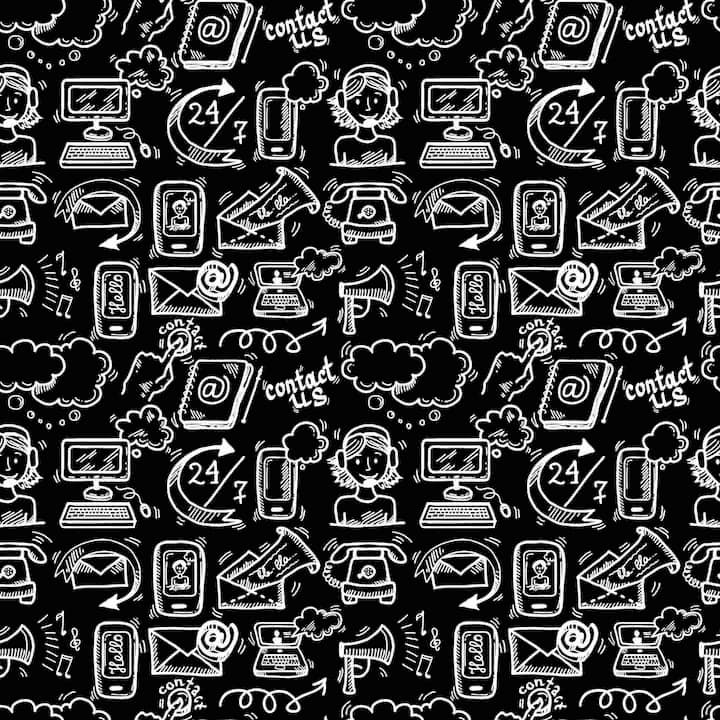
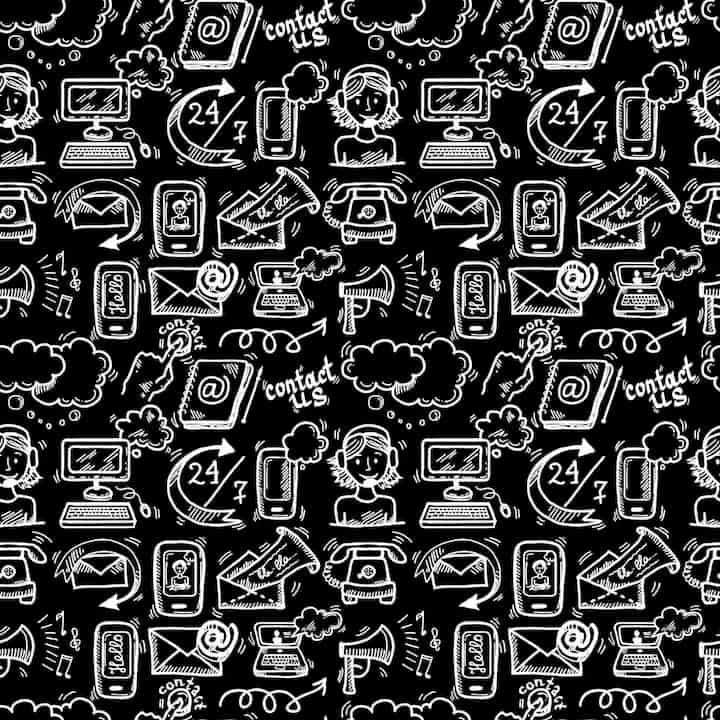
Images for dark & light theme

diff --git a/app/css/index.css b/app/css/index.css
@@ -600,8 +600,8 @@ body {
   display: block;
   position: relative;
   padding: var(--header-height) var(--header-margin-lr) 0 var(--header-margin-lr);
-  background: -webkit-gradient(linear, left top, left bottom, from(rgba(238, 238, 238, 0.85)), to(rgba(255, 255, 255, 0.85)));
-  background: linear-gradient(to bottom, rgba(238, 238, 238, 0.85), rgba(255, 255, 255, 0.85));
+  background: -webkit-gradient(linear, left top, left bottom, from(rgba(238, 238, 238, 0.9)), to(rgba(255, 255, 255, 0.85)));
+  background: linear-gradient(to bottom, rgba(238, 238, 238, 0.9), rgba(255, 255, 255, 0.85));
   overflow: hidden;
 }
 
@@ -625,12 +625,12 @@ body {
   left: 0;
   width: 100%;
   height: 100%;
-  background-image: url(/assets/images/home.jpg);
+  background-image: url(/assets/images/home_light.jpg);
   background-attachment: fixed !important;
   background-size: cover !important;
   z-index: -1;
-  -webkit-animation: zoomInOut 20s linear infinite;
-          animation: zoomInOut 20s linear infinite;
+  -webkit-animation: zoomInOut 10s linear infinite;
+          animation: zoomInOut 10s linear infinite;
 }
 
 @-webkit-keyframes zoomInOut {
@@ -1005,8 +1005,8 @@ body {
 .light-theme #work {
   -ms-grid-rows: var(--page-heading-size) auto;
       grid-template-rows: var(--page-heading-size) auto;
-  background: url(/assets/images/work.jpg), -webkit-gradient(linear, left top, left bottom, from(rgba(238, 238, 238, 0.85)), to(rgba(255, 255, 255, 0.85)));
-  background: url(/assets/images/work.jpg), linear-gradient(to bottom, rgba(238, 238, 238, 0.85), rgba(255, 255, 255, 0.85));
+  background: url(/assets/images/work.jpg), -webkit-gradient(linear, left top, left bottom, from(rgba(238, 238, 238, 0.9)), to(rgba(255, 255, 255, 0.85)));
+  background: url(/assets/images/work.jpg), linear-gradient(to bottom, rgba(238, 238, 238, 0.9), rgba(255, 255, 255, 0.85));
   background-attachment: fixed !important;
 }
 
@@ -2112,8 +2112,8 @@ body {
   display: block;
   position: relative;
   padding: var(--header-height) var(--header-margin-lr) 0 var(--header-margin-lr);
-  background: -webkit-gradient(linear, left top, left bottom, from(rgba(0, 0, 0, 0.95)), to(rgba(0, 0, 0, 0.85)));
-  background: linear-gradient(to bottom, rgba(0, 0, 0, 0.95), rgba(0, 0, 0, 0.85));
+  background: -webkit-gradient(linear, left top, left bottom, from(rgba(0, 0, 0, 0.95)), to(rgba(0, 0, 0, 0.65)));
+  background: linear-gradient(to bottom, rgba(0, 0, 0, 0.95), rgba(0, 0, 0, 0.65));
   overflow: hidden;
 }
 
@@ -2137,12 +2137,12 @@ body {
   left: 0;
   width: 100%;
   height: 100%;
-  background-image: url(/assets/images/home.jpg);
+  background-image: url(/assets/images/home_dark.jpg);
   background-attachment: fixed !important;
   background-size: cover !important;
   z-index: -1;
-  -webkit-animation: zoomInOut 20s linear infinite;
-          animation: zoomInOut 20s linear infinite;
+  -webkit-animation: zoomInOut 10s linear infinite;
+          animation: zoomInOut 10s linear infinite;
 }
 
 @keyframes zoomInOut {
@@ -2507,8 +2507,8 @@ body {
 .dark-theme #work {
   -ms-grid-rows: var(--page-heading-size) auto;
       grid-template-rows: var(--page-heading-size) auto;
-  background: url(/assets/images/work.jpg), -webkit-gradient(linear, left top, left bottom, from(rgba(0, 0, 0, 0.95)), to(rgba(0, 0, 0, 0.85)));
-  background: url(/assets/images/work.jpg), linear-gradient(to bottom, rgba(0, 0, 0, 0.95), rgba(0, 0, 0, 0.85));
+  background: url(/assets/images/work.jpg), -webkit-gradient(linear, left top, left bottom, from(rgba(0, 0, 0, 0.95)), to(rgba(0, 0, 0, 0.65)));
+  background: url(/assets/images/work.jpg), linear-gradient(to bottom, rgba(0, 0, 0, 0.95), rgba(0, 0, 0, 0.65));
   background-attachment: fixed !important;
 }
 

diff --git a/app/css/index.scss b/app/css/index.scss
@@ -9,7 +9,8 @@
         text: #212121,
         text-secondary: #9e9e9e,
         text-inverse: #fff,
-        home-bg: linear-gradient(to bottom, rgba(#eee, 0.85), rgba(#fff, 0.85)),
+        home-bg: linear-gradient(to bottom, rgba(#eee, 0.9), rgba(#fff, 0.85)),
+        home-img: url(/assets/images/home_light.jpg),
         btn-bg: linear-gradient(45deg, #e0e0e0, #e0e0e0, #fff, #e0e0e0, #e0e0e0),
         bg: #eee,
         card: #fff,
@@ -32,7 +33,8 @@
         text: #fff,
         text-secondary: #9e9e9e,
         text-inverse: #fff,
-        home-bg: linear-gradient(to bottom, rgba(#000, 0.95), rgba(#000, 0.85)),
+        home-bg: linear-gradient(to bottom, rgba(#000, 0.95), rgba(#000, 0.65)),
+        home-img: url(/assets/images/home_dark.jpg),
         btn-bg: linear-gradient(45deg, #000, #000, #181818, #000, #000),
         bg: #181818,
         card: #2e2e2e,

diff --git a/app/css/home.scss b/app/css/home.scss
@@ -22,11 +22,11 @@
         left: 0;
         width: 100%;
         height: 100%;
-        background-image: url(/assets/images/home.jpg);
+        background-image: color(home-img);
         background-attachment: fixed !important;
         background-size: cover !important;
         z-index: -1;
-        animation: zoomInOut 20s linear infinite;
+        animation: zoomInOut 10s linear infinite;
     }
 
     @keyframes zoomInOut {

diff --git a/app/index.html b/app/index.html
@@ -61,8 +61,15 @@
 
         #typing:after {
             content: "_";
-            color: #212121;
             animation: cursorBlink 0.3s infinite;
+        }
+
+        .light-theme #typing:after {
+            color: #212121;
+        }
+
+        .dark-theme #typing:after {
+            color: #eee;
         }
 
         @keyframes cursorBlink {
